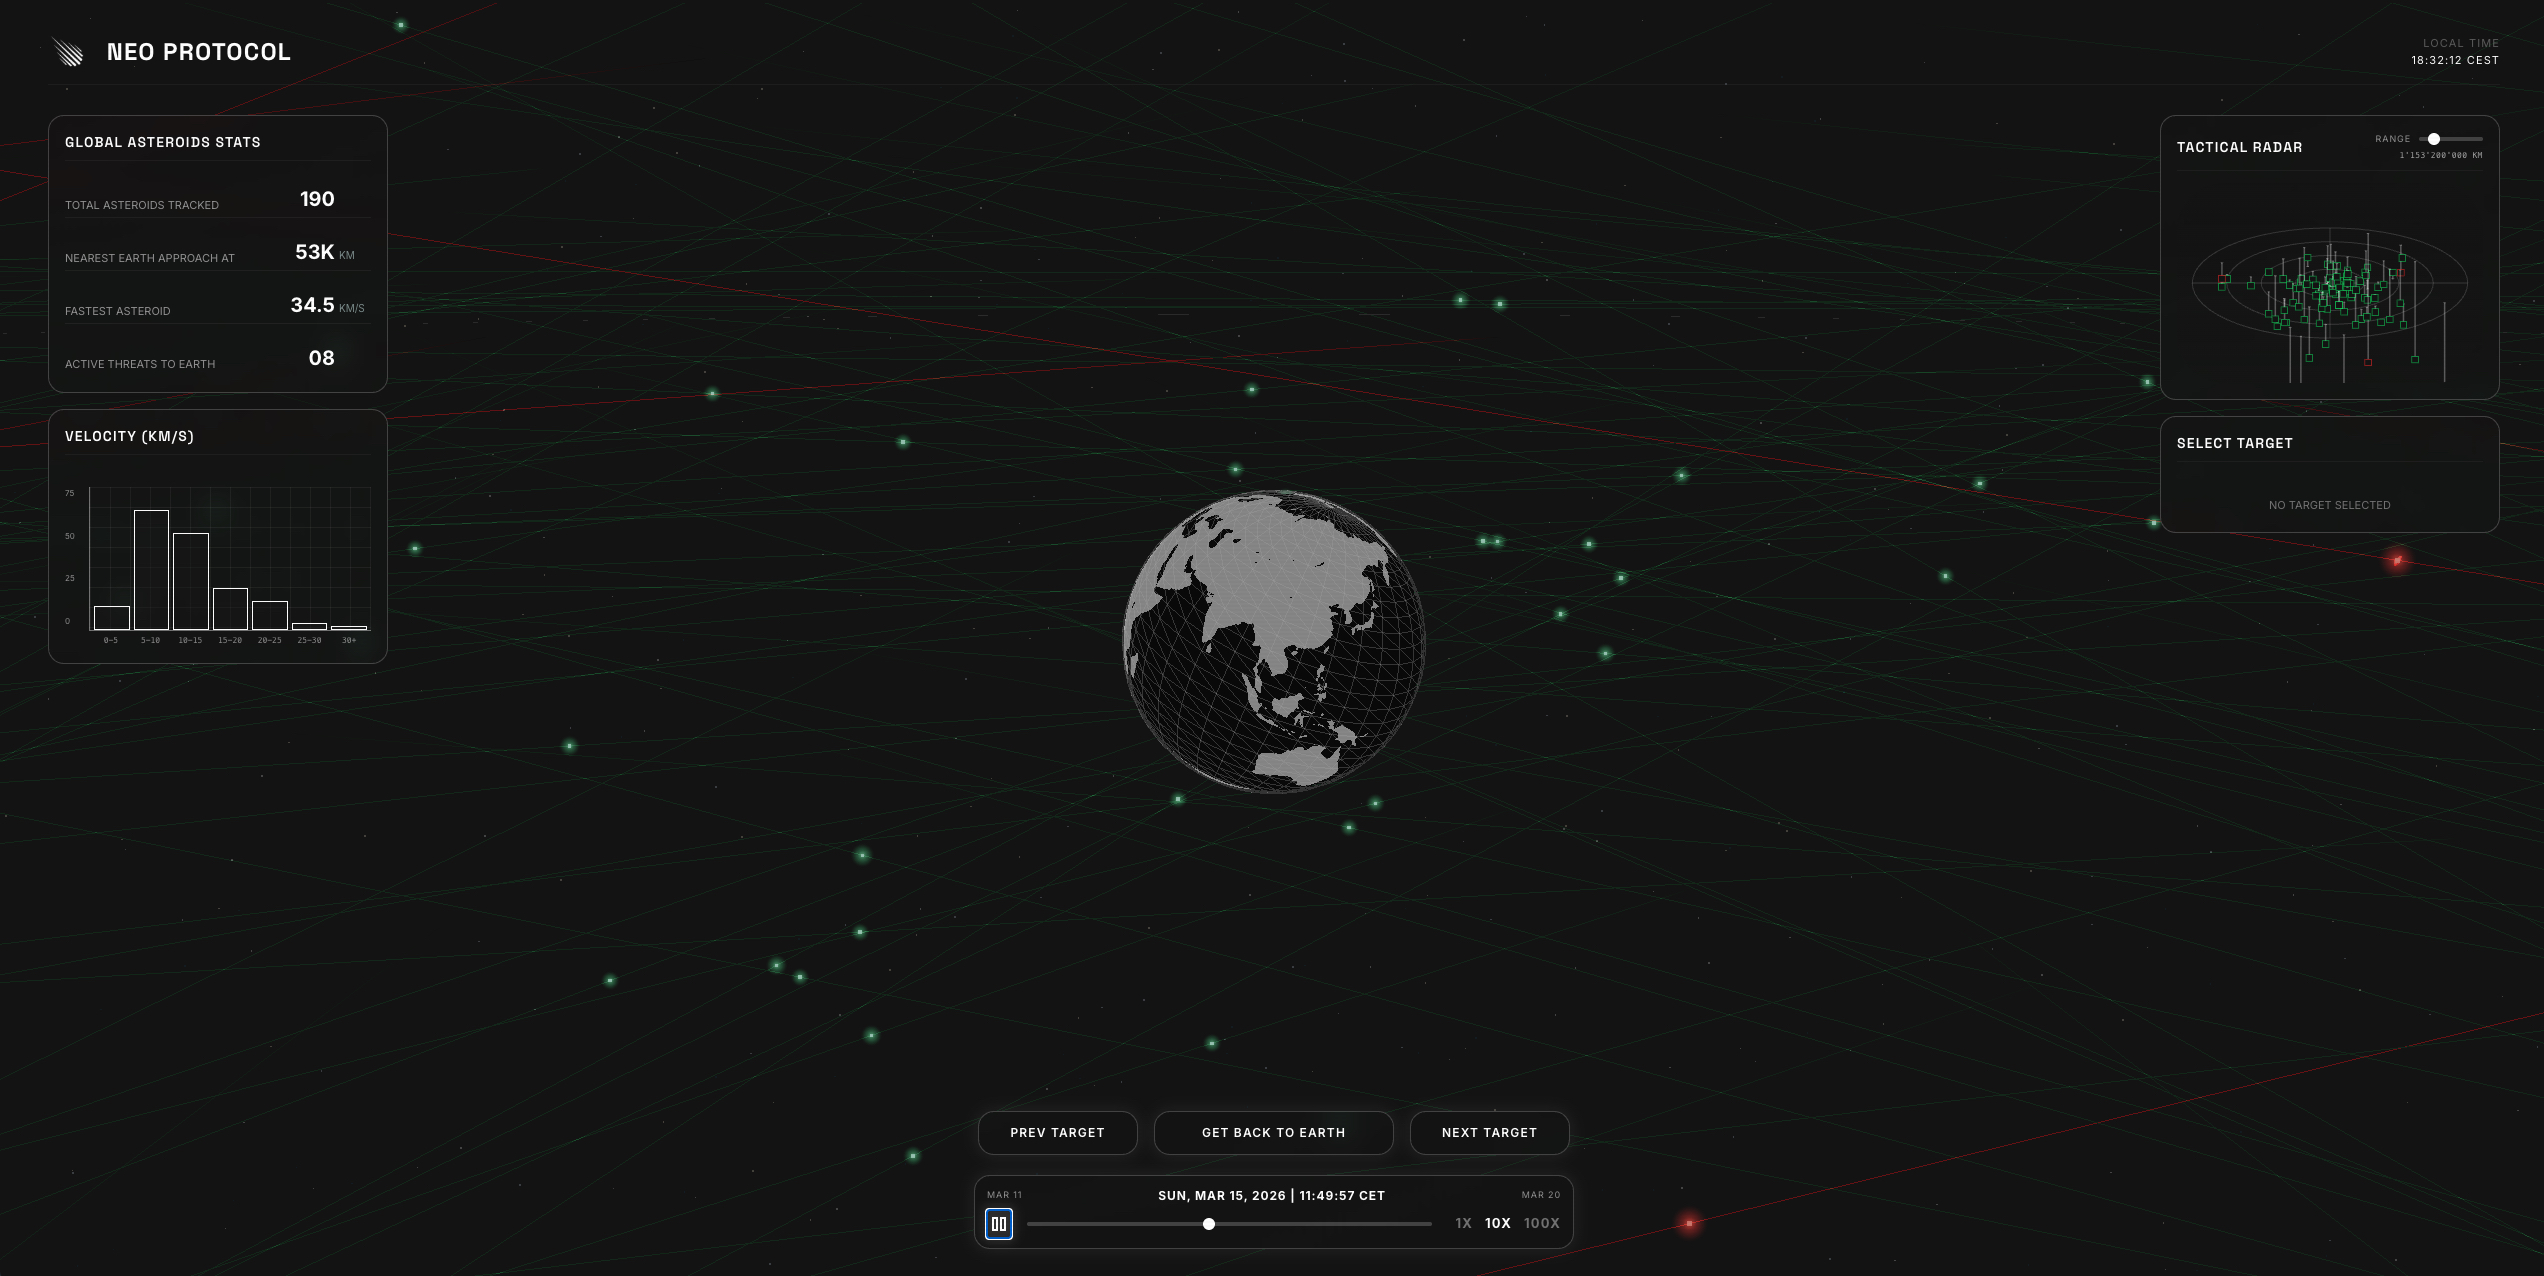
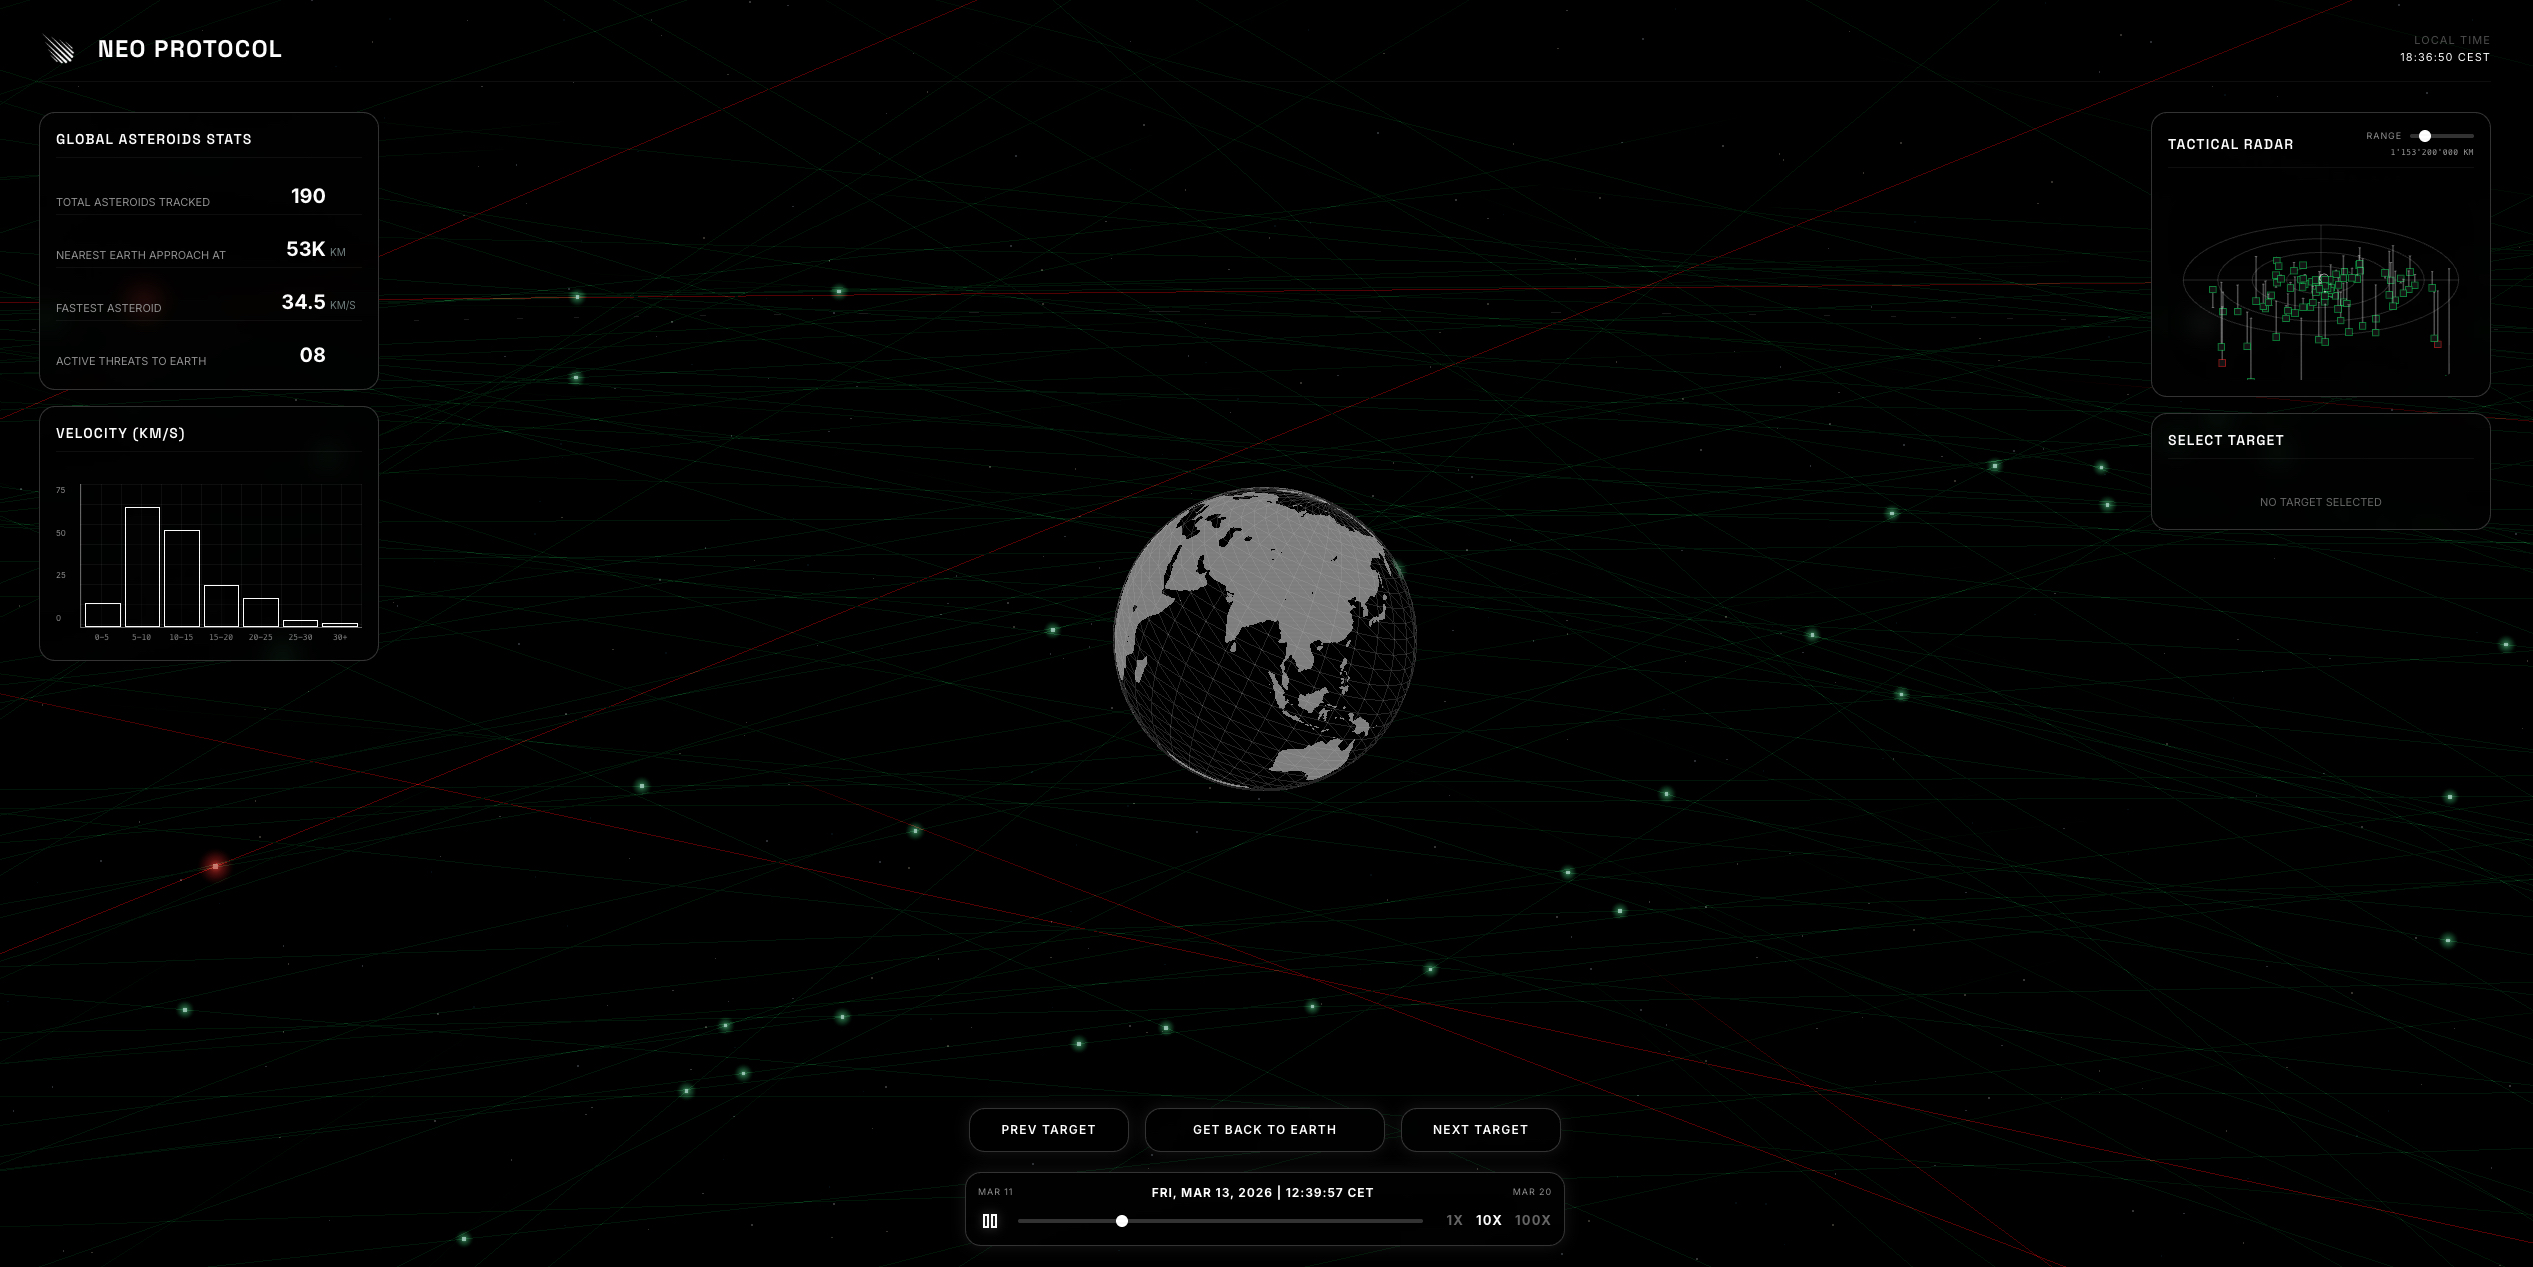
style: update global color scheme to absolute black (#000000)

diff --git a/index.html b/index.html
@@ -31,7 +31,7 @@
                         "surface-container-lowest": "#0e0e0e",
                         "inverse-primary": "#5c5e66",
                         "on-tertiary-fixed": "#ffffff",
-                        "surface": "#131313",
+                        "surface": "#000000",
                         "secondary": "#c8c6cb",
                         "on-primary-fixed-variant": "#e1e2ec",
                         "on-primary-container": "#000000",
@@ -41,7 +41,7 @@
                         "surface-container": "#1f1f1f",
                         "secondary-fixed": "#c8c6cb",
                         "inverse-on-surface": "#303030",
-                        "surface-dim": "#131313",
+                        "surface-dim": "#000000",
                         "secondary-container": "#47464b",
                         "surface-bright": "#393939",
                         "on-secondary-fixed": "#1b1b1f",
@@ -62,7 +62,7 @@
                         "surface-container-high": "#2a2a2a",
                         "on-error": "#690005",
                         "primary": "#ffffff",
-                        "background": "#131313",
+                        "background": "#000000",
                         "primary-container": "#d3d4dd",
                         "surface-tint": "#c5c6cf"
                     },
@@ -83,7 +83,7 @@
     </script>
     <style>
         body {
-            background-color: #131313;
+            background-color: #000000;
             color: #e2e2e2;
             font-family: 'Inter', sans-serif;
             margin: 0;
@@ -111,7 +111,7 @@
     </header>
     <main class="relative min-h-screen flex flex-col">
         <section class="relative h-screen w-full overflow-hidden flex items-center px-8 md:px-24">
-            <div class="absolute inset-0 z-0 bg-[#0a0a0a]" id="landing-3d-bg">
+            <div class="absolute inset-0 z-0 bg-[#000000]" id="landing-3d-bg">
                 <div class="absolute inset-0 bg-black/40 pointer-events-none z-10"></div>
             </div>
             <div class="relative z-10 max-w-4xl pt-20">
@@ -152,7 +152,7 @@
                 const renderer = new THREE.WebGLRenderer({ antialias: true, alpha: false });
                 renderer.setPixelRatio(Math.min(window.devicePixelRatio, 2));
                 renderer.setSize(window.innerWidth, window.innerHeight);
-                renderer.setClearColor(0x050508, 1);
+                renderer.setClearColor(0x000000, 1);
                 renderer.toneMapping = THREE.ACESFilmicToneMapping;
                 renderer.toneMappingExposure = 1.2;
 
@@ -200,7 +200,7 @@
                 });
                 const earth = new THREE.Mesh(earthGeo, continentMat);
                 earth.add(new THREE.Mesh(new THREE.SphereGeometry(EARTH_R * 1.005, 32, 32), new THREE.MeshBasicMaterial({ color: 0xffffff, wireframe: true, transparent: true, opacity: 0.1 })));
-                earth.add(new THREE.Mesh(new THREE.SphereGeometry(EARTH_R * 0.99, 32, 32), new THREE.MeshBasicMaterial({ color: 0x131313 })));
+                earth.add(new THREE.Mesh(new THREE.SphereGeometry(EARTH_R * 0.99, 32, 32), new THREE.MeshBasicMaterial({ color: 0x000000 })));
 
                 earth.rotation.z = 23.5 * Math.PI / 180;
                 earth.position.set(280, -50, -350);

diff --git a/app/app.html b/app/app.html
@@ -23,7 +23,7 @@
                 extend: {
                     "colors": {
                         "primary": "#ffffff",
-                        "surface": "#131313",
+                        "surface": "#000000",
                         "on-surface": "#e2e2e2",
                         "on-primary": "#191b22",
                         "outline-variant": "#474747",
@@ -201,7 +201,7 @@
                     </div>
                 </div>
                 <div
-                    class="w-full h-[200px] flex relative rounded-xl overflow-hidden mt-1 bg-gradient-to-b from-[#131313]/80 to-[#131313]/30">
+                    class="w-full h-[200px] flex relative rounded-xl overflow-hidden mt-1 bg-gradient-to-b from-[#000000]/80 to-[#000000]/30">
                     <canvas id="radar3d-canvas" class="w-full h-full relative z-0"></canvas>
                 </div>
             </div>

diff --git a/app/script.js b/app/script.js
@@ -173,7 +173,7 @@ function createEarthAndMoon() {
     const wireMat = new THREE.MeshBasicMaterial({ color: 0xffffff, wireframe: true, transparent: true, opacity: 0.1 });
     earth.add(new THREE.Mesh(wireGeo, wireMat));
 
-    const coreMat = new THREE.MeshBasicMaterial({ color: 0x131313 });
+    const coreMat = new THREE.MeshBasicMaterial({ color: 0x000000 });
     earth.add(new THREE.Mesh(new THREE.SphereGeometry(EARTH_RADIUS_VISUAL * 0.99, 32, 32), coreMat));
 
     earth.rotation.z = 23.5 * Math.PI / 180;

diff --git a/app/style.css b/app/style.css
@@ -1,7 +1,7 @@
 body {
     margin: 0;
     overflow: hidden;
-    background-color: #131313;
+    background-color: #000000;
     color: #E0FFFF;
     font-family: 'Inter', sans-serif;
 }